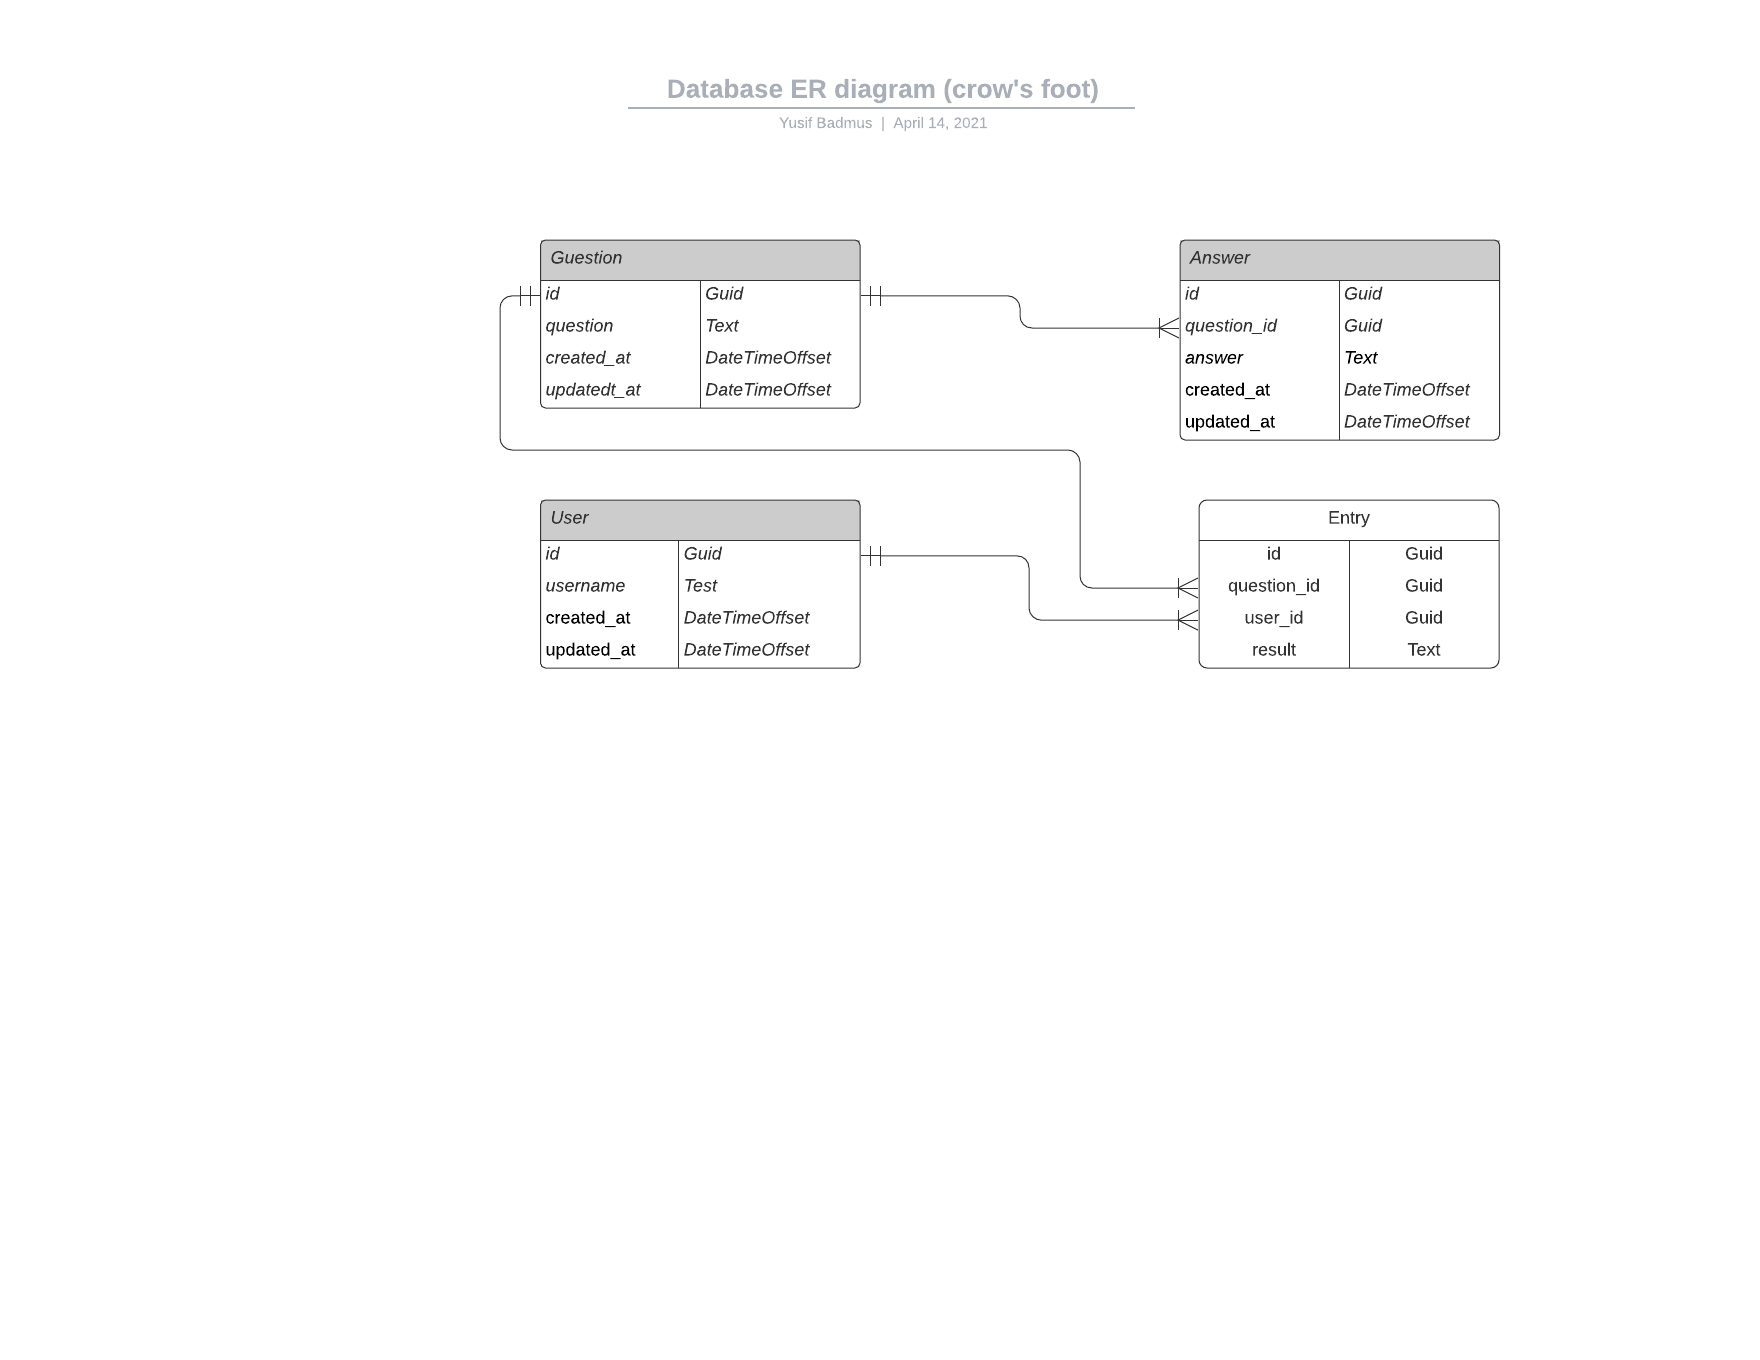
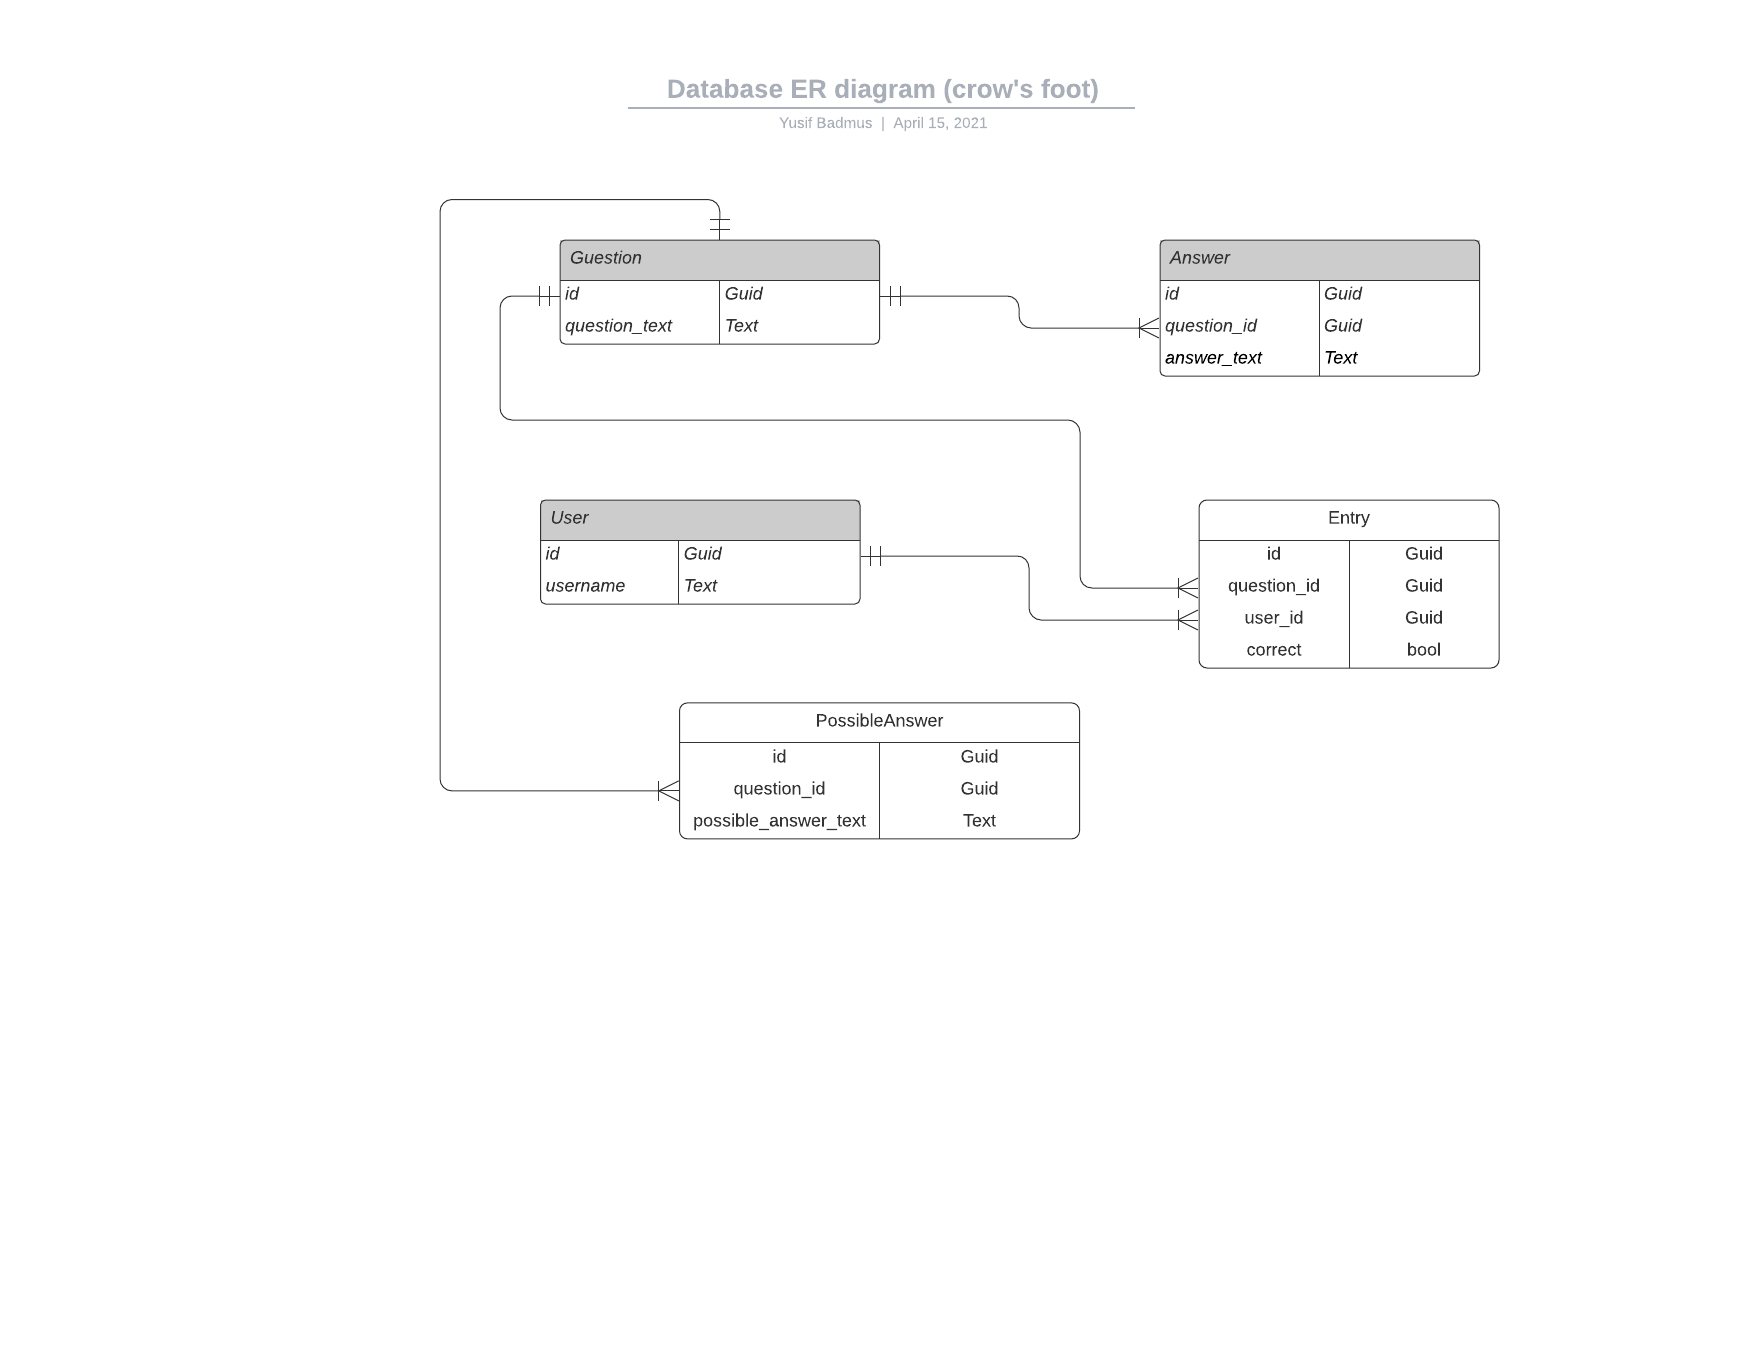
add new schema to docs file

diff --git a/React.NET/Services/QuizRepository.cs b/React.NET/Services/QuizRepository.cs
@@ -112,13 +112,17 @@ namespace React.NET.Services
             _context.Entries.Add(entry);
         }
 
-        public void CreateNewUser(User user)
+        public Guid CreateNewUser(User user)
         {
-            if (user.Id == null)
-            {
-                user.Id = Guid.NewGuid();
-            }
+            user.Id = Guid.NewGuid();
             _context.Users.Add(user);
+            return user.Id;
+        }
+
+        public Guid LoginUserWithUsername(String username)
+        {
+            return _context.Users
+                .Where(u => u.Username == username).FirstOrDefault().Id;
         }
 
         public int CalculateScoreForQuiz(Guid userId)
